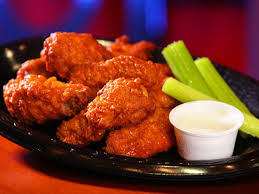
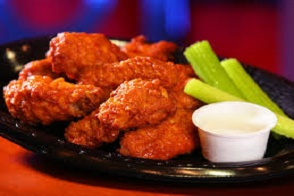
Modified the dimensions of the images on the appetizer page

diff --git a/js/bbq.js b/js/bbq.js
@@ -9,10 +9,10 @@
     });
 });
 
-//<![CDATA[
-$("#defaultPage").on("load", function () {
-    setInterval('displayImage()', 5000);
-    if (document.getElementById("menuImage") != null) {
+
+$("#defaultPage").ready(function () { 
+    var rollingImage = document.getElementById("menuImage");
+    if (rollingImage != null) {
         var dish = new Array(4);
         var curDish = 0;
         dish[0] = "Riz au gras.jpg";
@@ -22,15 +22,18 @@ $("#defaultPage").on("load", function () {
         function displayImage() {
             if (curDish == 3)
                 curDish = 0;
-            else
+            else {
                 curDish++;
             document.getElementById("menuImage").src = "../images/" + dish[curDish];
         }
     }
+    setInterval(displayImage, 5000);
+  }
 });
-//]]>
 
-    $(window).load(function () {
+
+
+    $("#defaultPage").load(function () {
         $('#myModal').modal('show');
 
     });
@@ -47,7 +50,8 @@ $("#defaultPage").on("load", function () {
     function Submit()
     {
         if ((document.getElementById("wings").checked == true) || (document.getElementById("blt").checked == true) || (document.getElementById("cobbler").checked == true) || (document.getElementById("beans").checked == true) || (document.getElementById("pork").checked == true) || (document.getElementById("rings").checked == true) || (document.getElementById("skillet").checked == true) || (document.getElementById("cream").checked == true) || (document.getElementById("mozarella").checked == true) || (document.getElementById("couscous").checked == true) || (document.getElementById("cheese_pie").checked == true) || (document.getElementById("pecan").checked == true)) {
-              document.getElementById("add_cart").setAttribute("data-target", "#myModal");
+            document.getElementById("myModal").removeClass("hide")
+            document.getElementById("add_cart").setAttribute("data-target", "#myModal");
             }
 
          else

diff --git a/css/bbqstyle.css b/css/bbqstyle.css
@@ -39,10 +39,12 @@
     }
 
     #describeOrder {
-        text-align:left; 
+        display: flex;
+        text-align:right; 
         margin: auto; 
         color: black;
         background-color: white;
+        align-content: flex-end;
     }
 
     table {
@@ -641,9 +643,11 @@ a:hover{
   .sub_Menu
   {
         display: flex;
+        flex-wrap: wrap;
         align-items: center;
         flex-wrap: wrap;
         justify-content: center;
+        align-content:space-between;
   }
 
   .footer{
@@ -696,7 +700,7 @@ a:hover{
 .accordion 
 {
   background-color: #eef;
-  width: 20% ;
+  width: inherit ;
   margin-top: 0.1em;
   font-family: Verdana, Tahoma, Sans-Serif;
   margin-bottom: 1em;
@@ -705,11 +709,11 @@ a:hover{
         /* term box contains the term to be defined */
 .term 
 {
-  padding: 2%;
   background: url("../Images/tinyArrow.png") no-repeat 98% center;
   border: solid 1px white;
   margin:auto;
   color: black;
+  width: 100%;
 }
 
 .term:hover
